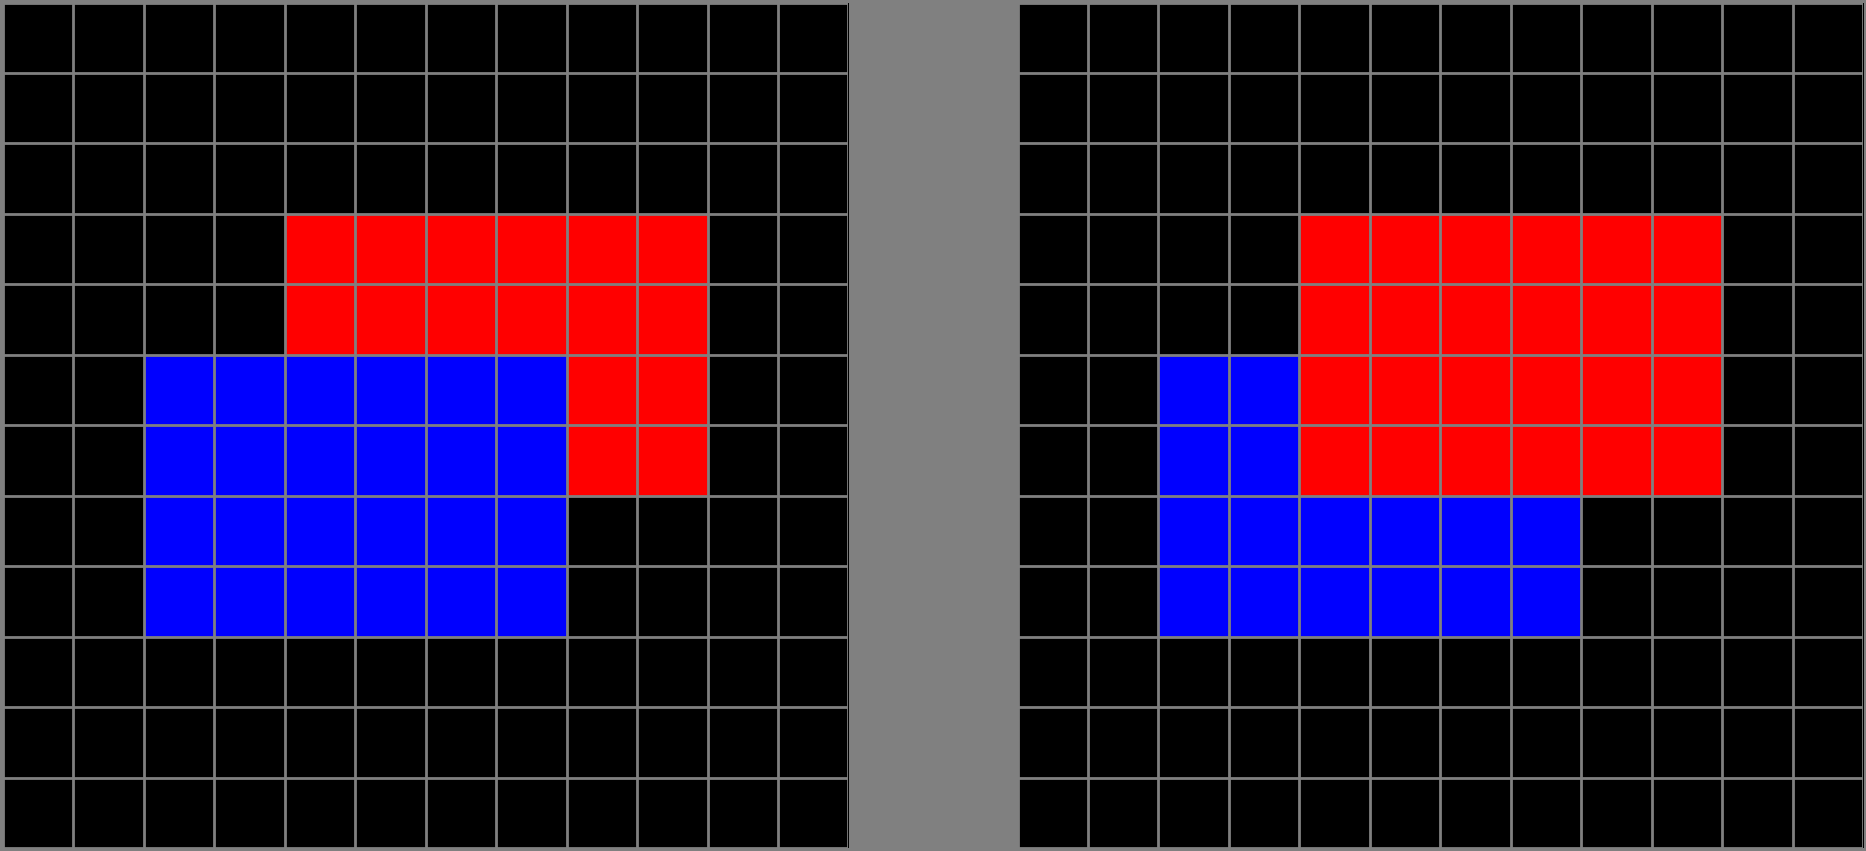
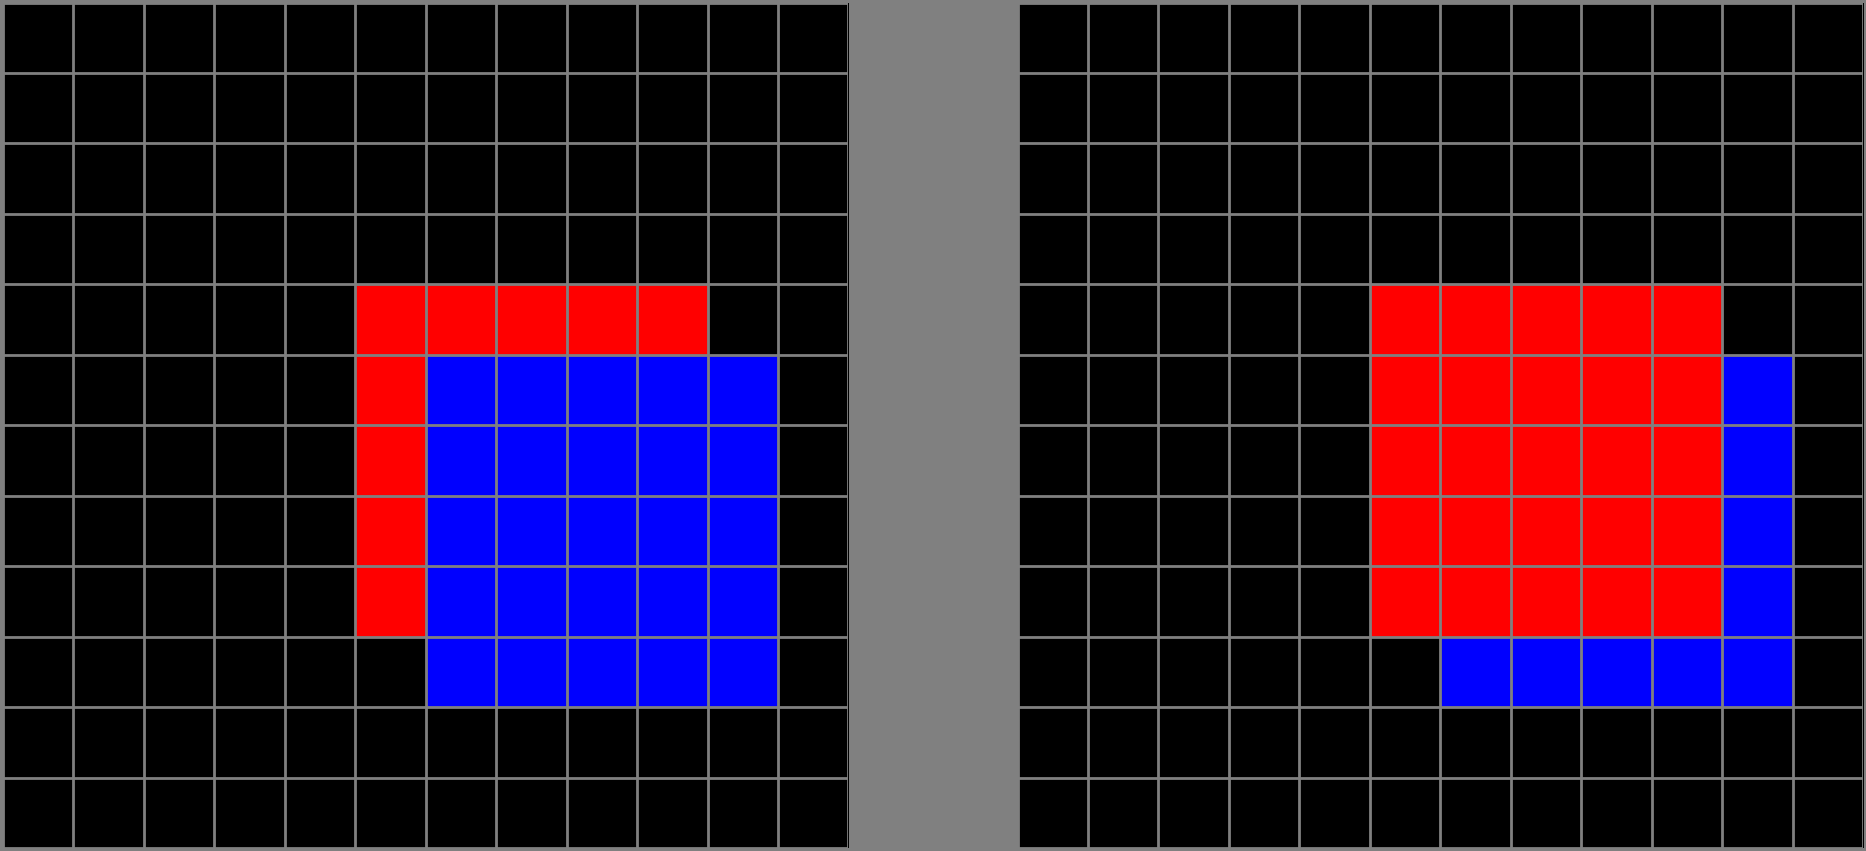
clean-up before new feature

Changed region(s): [[0.0622, 0.2444, 0.4352, 0.8555], [0.6217, 0.2444, 0.9636, 0.8555]]

diff --git a/src/templates/occlusion.py b/src/templates/occlusion.py
@@ -1,3 +1,4 @@
+
 import random
 from src.grid import Grid
 
@@ -9,6 +10,8 @@ def generate_occlusion_reversal_rectangles(grid_size=(12, 12), size_range=(2, 5)
 
     # Random sizes for both blocks
     w, h = random.randint(*size_range), random.randint(*size_range)
+
+    # TODO: update the block location generation logic. Use always top-left corner, calculate valid window from there.
 
     # Random position for back block (x and y of bottom left corner of the back block)
     x1 = random.randint(min(size_range), cols - w - min(size_range))
@@ -49,69 +52,4 @@ def generate_occlusion_reversal_rectangles(grid_size=(12, 12), size_range=(2, 5)
 
     return grid_input, grid_output
 
-
-"""
-# Might be needed if we want rectangles of different sizes. For now halted implementing logic.
-
-def generate_occlusion_reversal_difsize(grid_size=(12, 12), size_range=(3, 5), colors=("red", "blue")):
-    rows, cols = grid_size
-    grid_input = Grid(rows, cols)
-    grid_output = Grid(rows, cols)
-
-    # Random sizes for both blocks
-    w1, h1 = random.randint(*size_range), random.randint(*size_range)
-    w2, h2 = random.randint(*size_range), random.randint(*size_range)
-
-    # Random position for back block (x and y of bottom left corner)
-    x1 = random.randint(0, cols - w1)
-    y1 = random.randint(0, rows - h1)
-
-    # Pick a corner of front block
-    corner = random.choice(["tl", "tr", "bl", "br"])
-
-    # Calculate front block corner based on chosen corner alignment
-    if corner == "tl":
-        min_x = x1 + 1 + (w1 - w2)
-        max_x = x1 + w1 - 1
-        min_y = y1 + 1
-        max_y = min(y1 + h1 - h2, rows - h2)
-    elif corner == "tr":
-        min_x = max(x1 + w2 - 1, x1 + 1)
-        max_x = x1 + w1 - 2
-        min_y = y1 + 1
-        max_y = min(y1 + h1 - h2, rows - h2)
-
-    elif corner == "bl":
-        min_x = x1 + 1
-        max_x = min(x1 + w1 - w2, cols - w2)
-        min_y = max(y1 + h2 - 1, y1 + 1)
-        max_y = y1 + h1 - 2
-
-    elif corner == "br":
-        min_x = max(x1 + w2 - 1, x1 + 1)
-        max_x = x1 + w1 - 2
-        min_y = max(y1 + h2 - 1, y1 + 1)
-        max_y = y1 + h1 - 2
-
-    x2 = min_x if min_x == max_x else random.randint(min_x, max_x)
-    y2 = min_y if min_y == max_y else random.randint(min_y, max_y)
-
-    # Clamp within grid
-    x2 = max(0, min(x2, cols - w2))
-    y2 = max(0, min(y2, rows - h2))
-
-    # Place back block first
-    back_block = {"xmin": x1, "ymin": y1, "xmax": x1 + w1, "ymax": y1 + h1, "color": colors[0]}
-    front_block = {"xmin": x2, "ymin": y2, "xmax": x2 + w2, "ymax": y2 + h2, "color": colors[1]}
-
-    # Input: back first, front second
-    grid_input.fill_rect(**back_block)
-    grid_input.fill_rect(**front_block)
-
-    # Output: front first, back second (reversed)
-    grid_output.fill_rect(**front_block)
-    grid_output.fill_rect(**back_block)
-
-    return grid_input, grid_output
-"""
 

diff --git a/src/main.py b/src/main.py
@@ -5,9 +5,6 @@ from src.util import get_output_path
 
 def main():
     input_grid, output_grid = generate_occlusion_reversal_rectangles()
-
-    render_grid(input_grid, save_path=get_output_path("occlusion", "overlap_input.png"))
-    render_grid(output_grid, save_path=get_output_path("occlusion", "overlap_output.png"))
     render_grids_together(input_grid, output_grid,
                           save_path=get_output_path("occlusion", "overlap_combined.png"))
 

diff --git a/src/util.py b/src/util.py
@@ -6,7 +6,7 @@ def get_output_path(template_name: str, filename: str = "output.png") -> str:
     Returns a clean output path like: out/occlusion/overlap_input.png
     Creates the folders if they don't exist.
     """
-    base_dir = "out"
+    base_dir = "../out"
     sub_dir = os.path.join(base_dir, template_name)
     os.makedirs(sub_dir, exist_ok=True)
     return os.path.join(sub_dir, filename)
